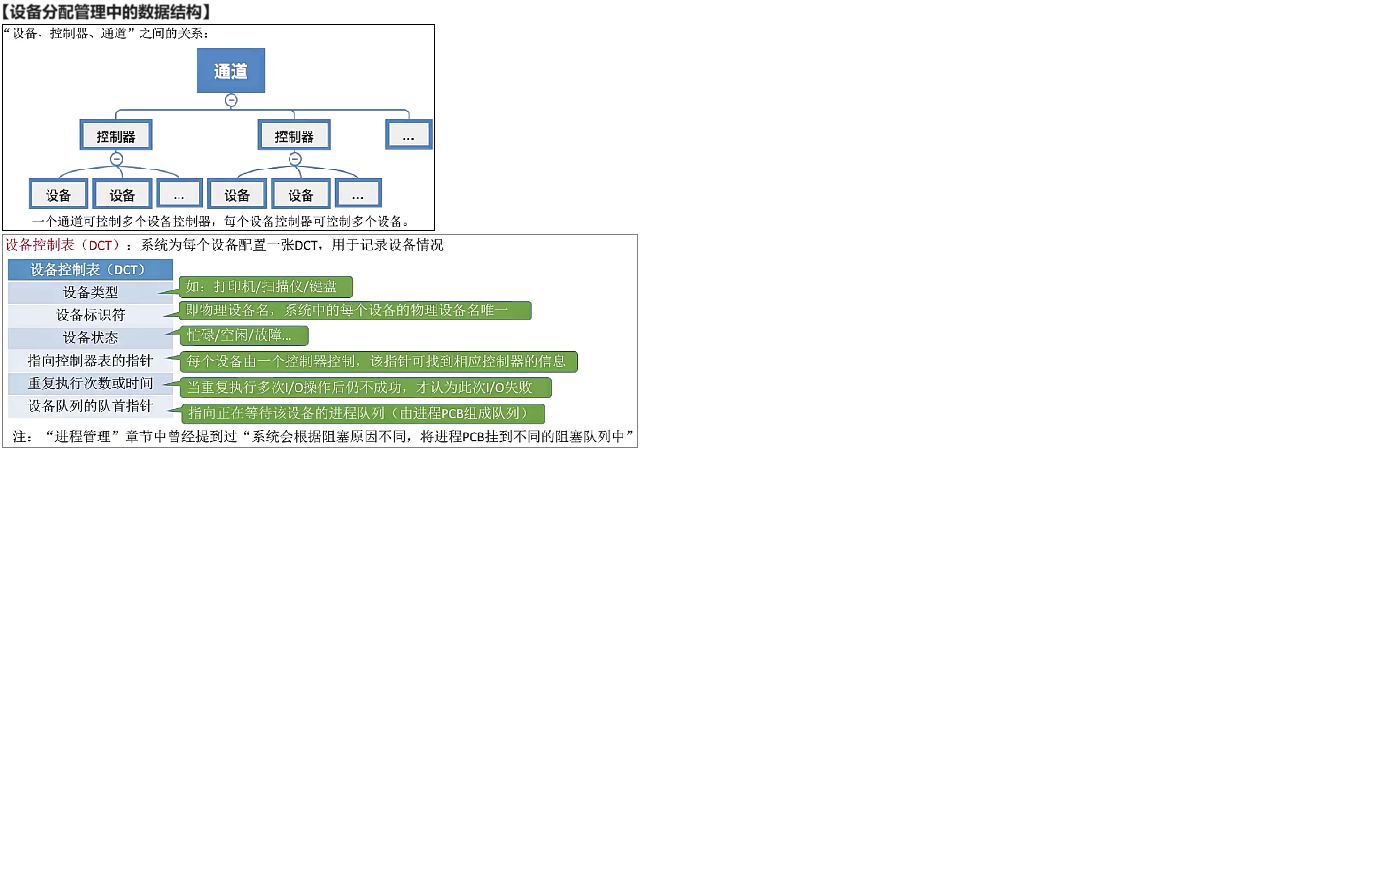
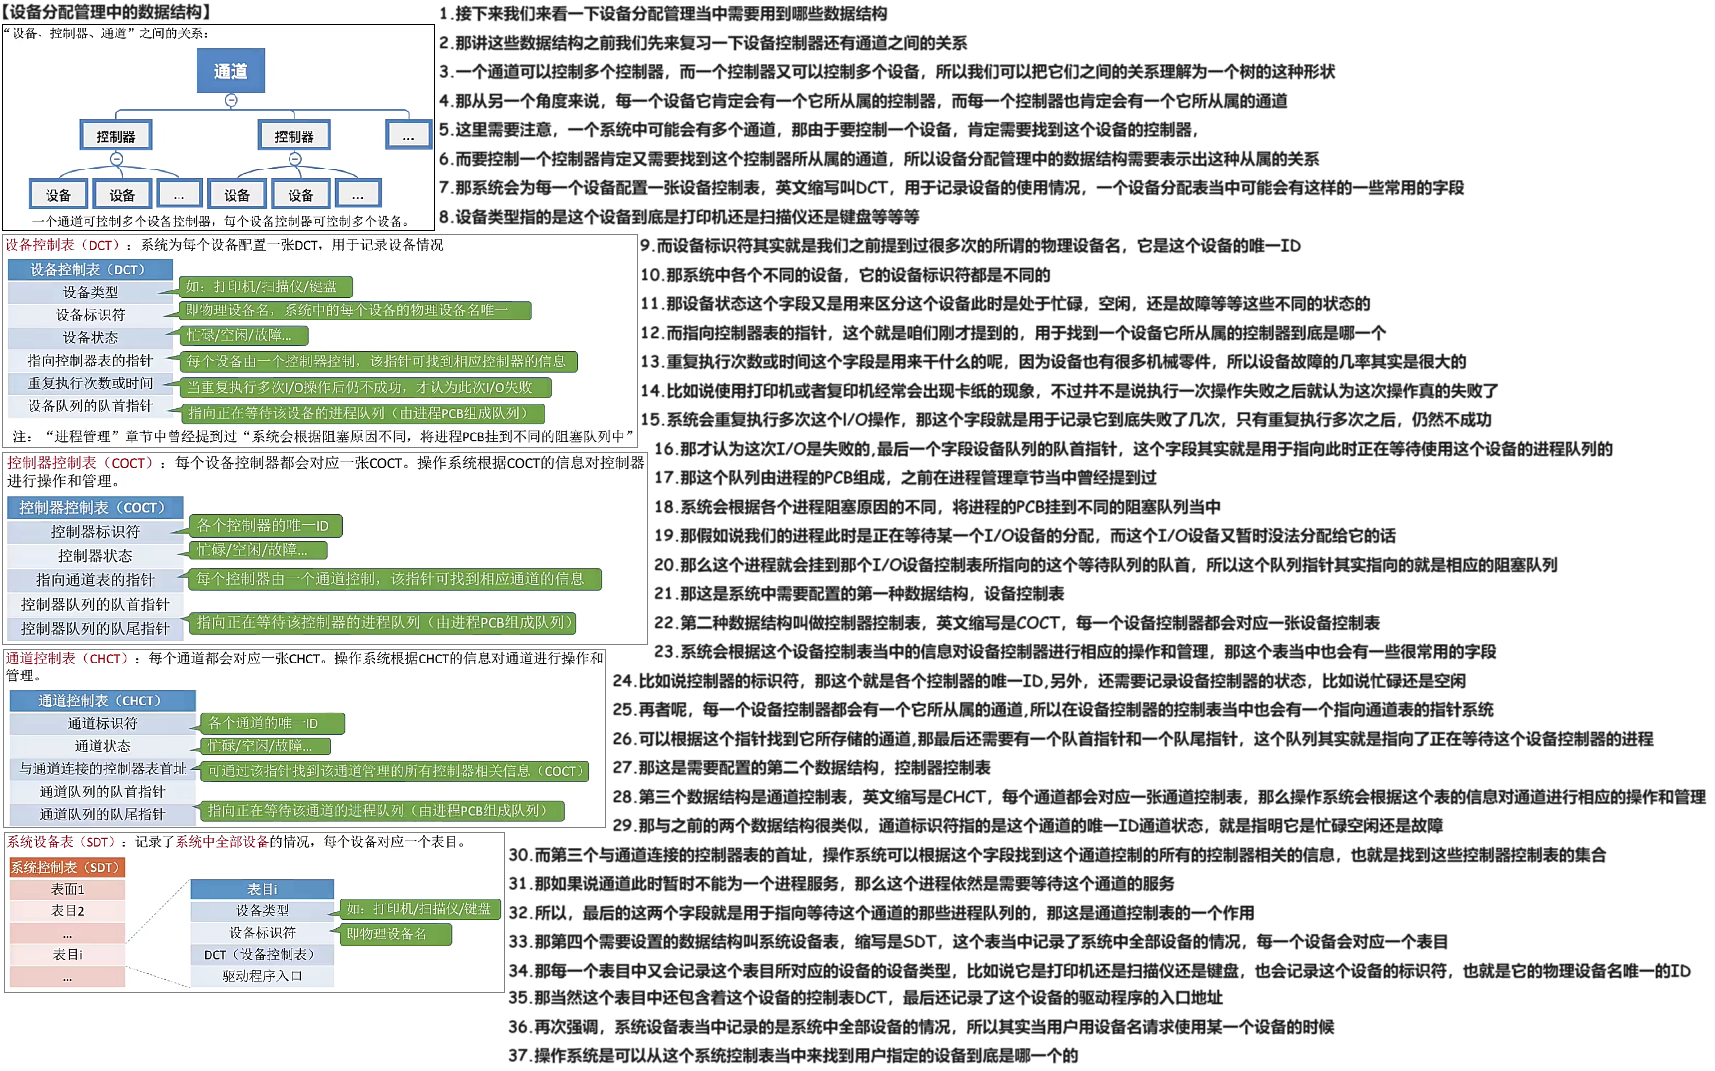
240710

diff --git a/01 初试/01 OS/02 24 25 王道/01 基础/05 输入输出 IO管理/08 设备分配与回收 240710/02 视频/02 Doc.md b/01 初试/01 OS/02 24 25 王道/01 基础/05 输入输出 IO管理/08 设备分配与回收 240710/02 视频/02 Doc.md
@@ -21,3 +21,9 @@
 
 
 # 04 设备分配管理中的数据结构
+
+<img src="https://cvp.oss-cn-shanghai.aliyuncs.com/picgo/202407102135122.png" alt="image-20240710213519793" style="zoom:50%;" />
+
+
+
+# 05 设备分配的步骤
